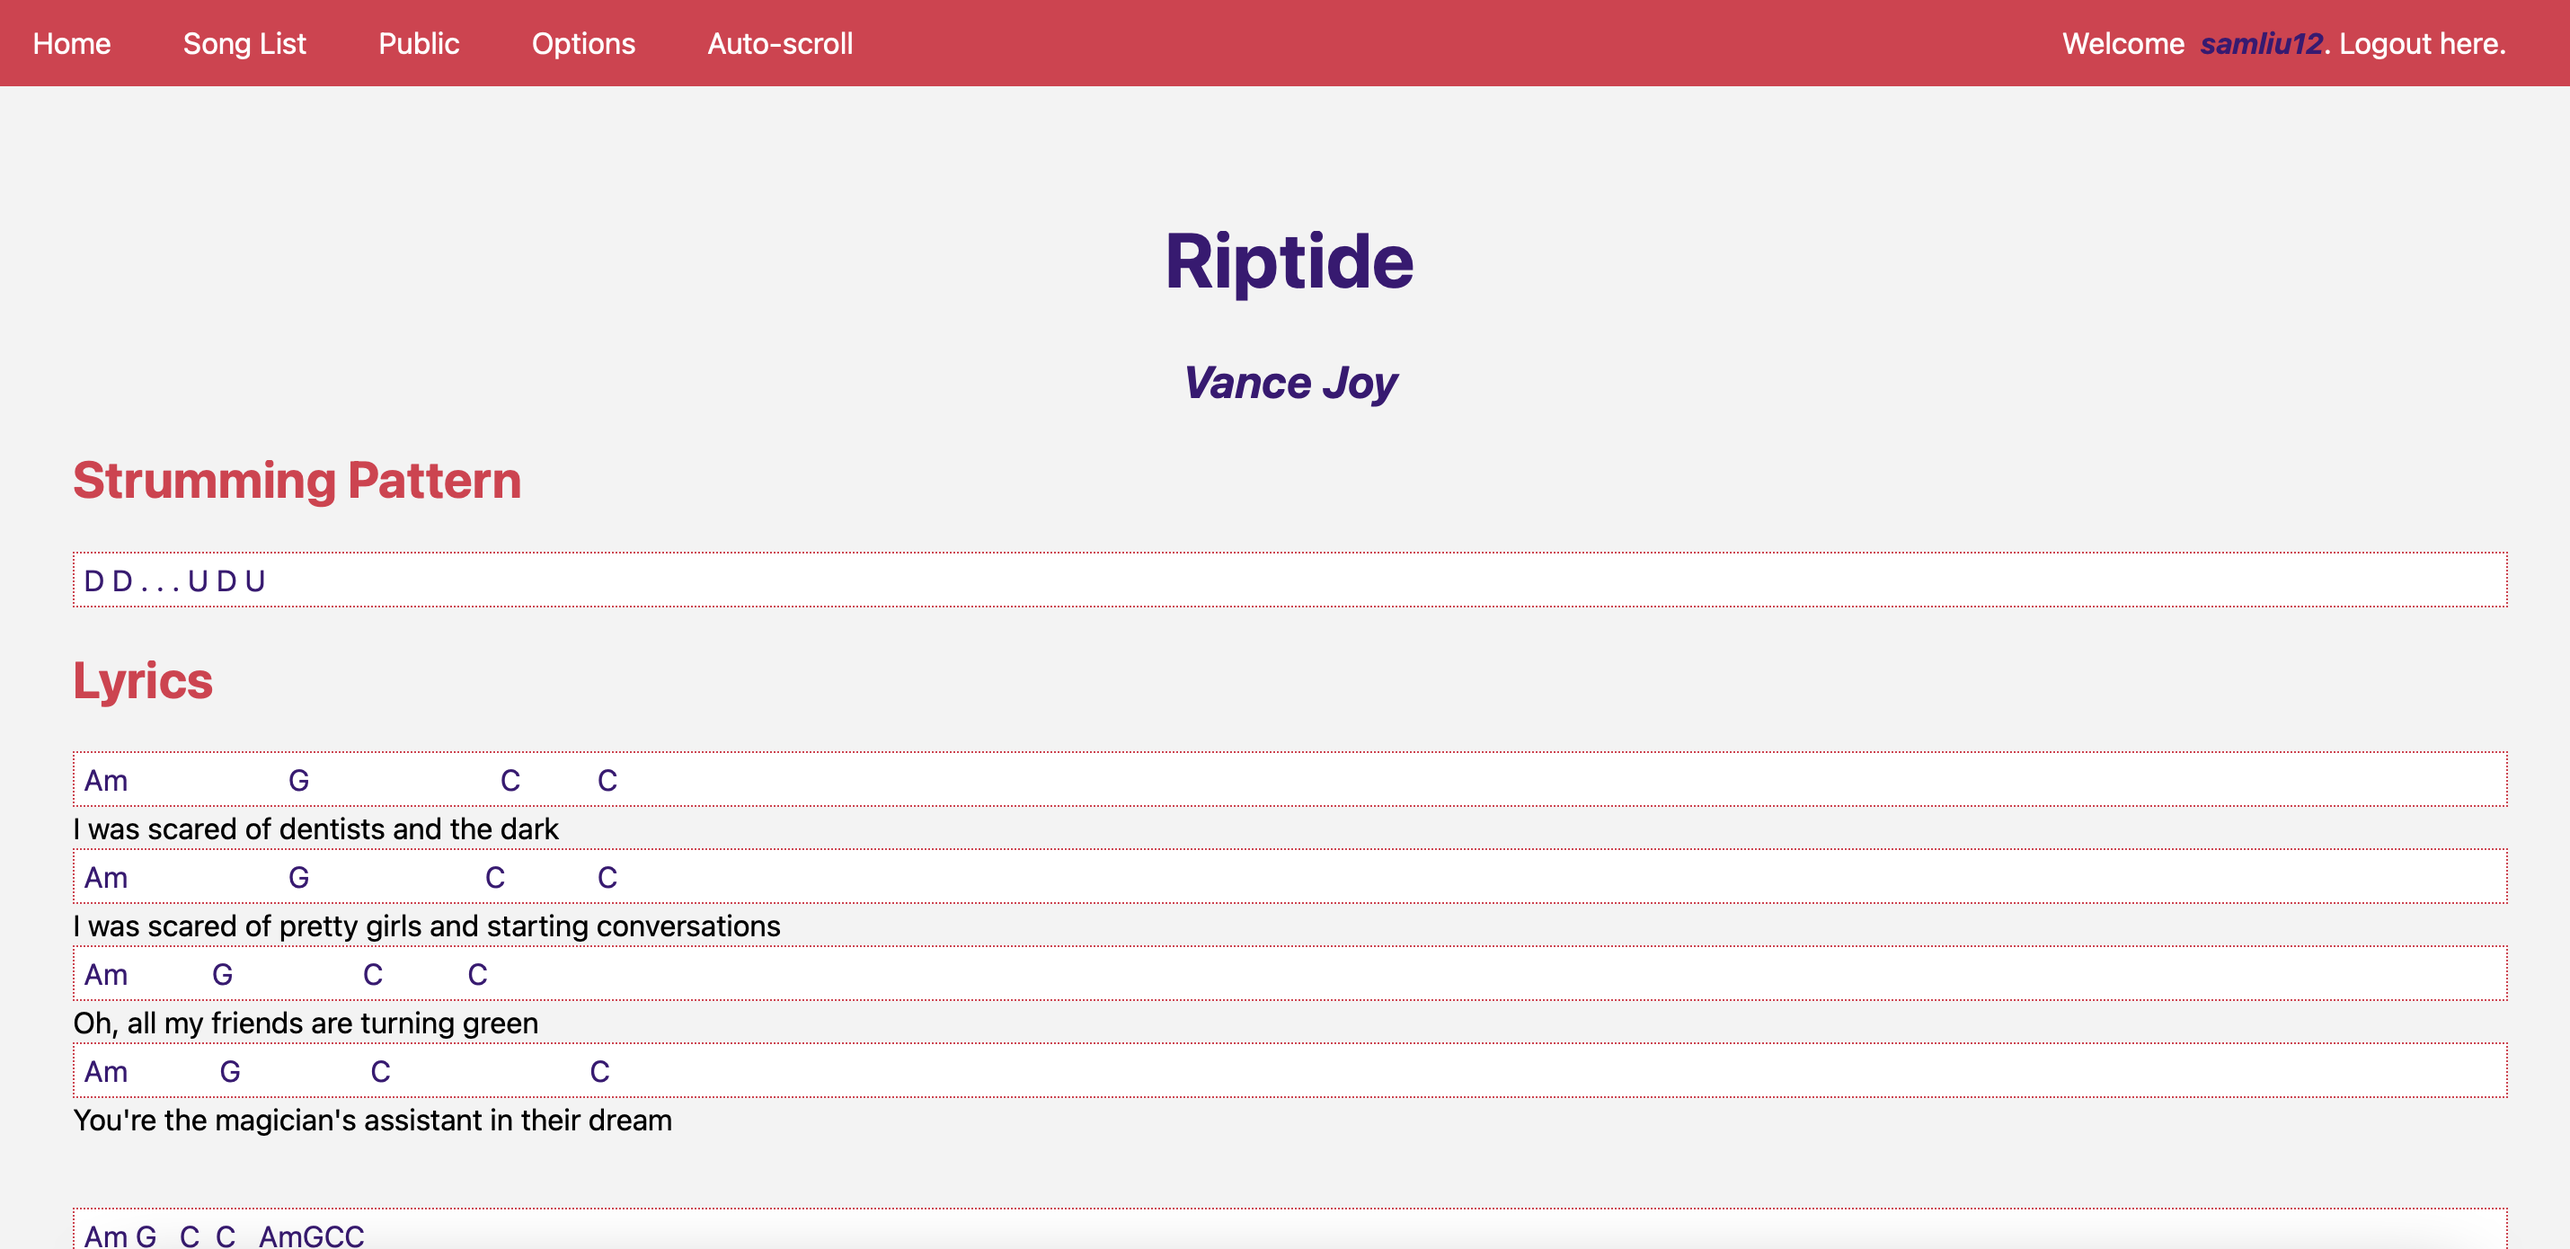
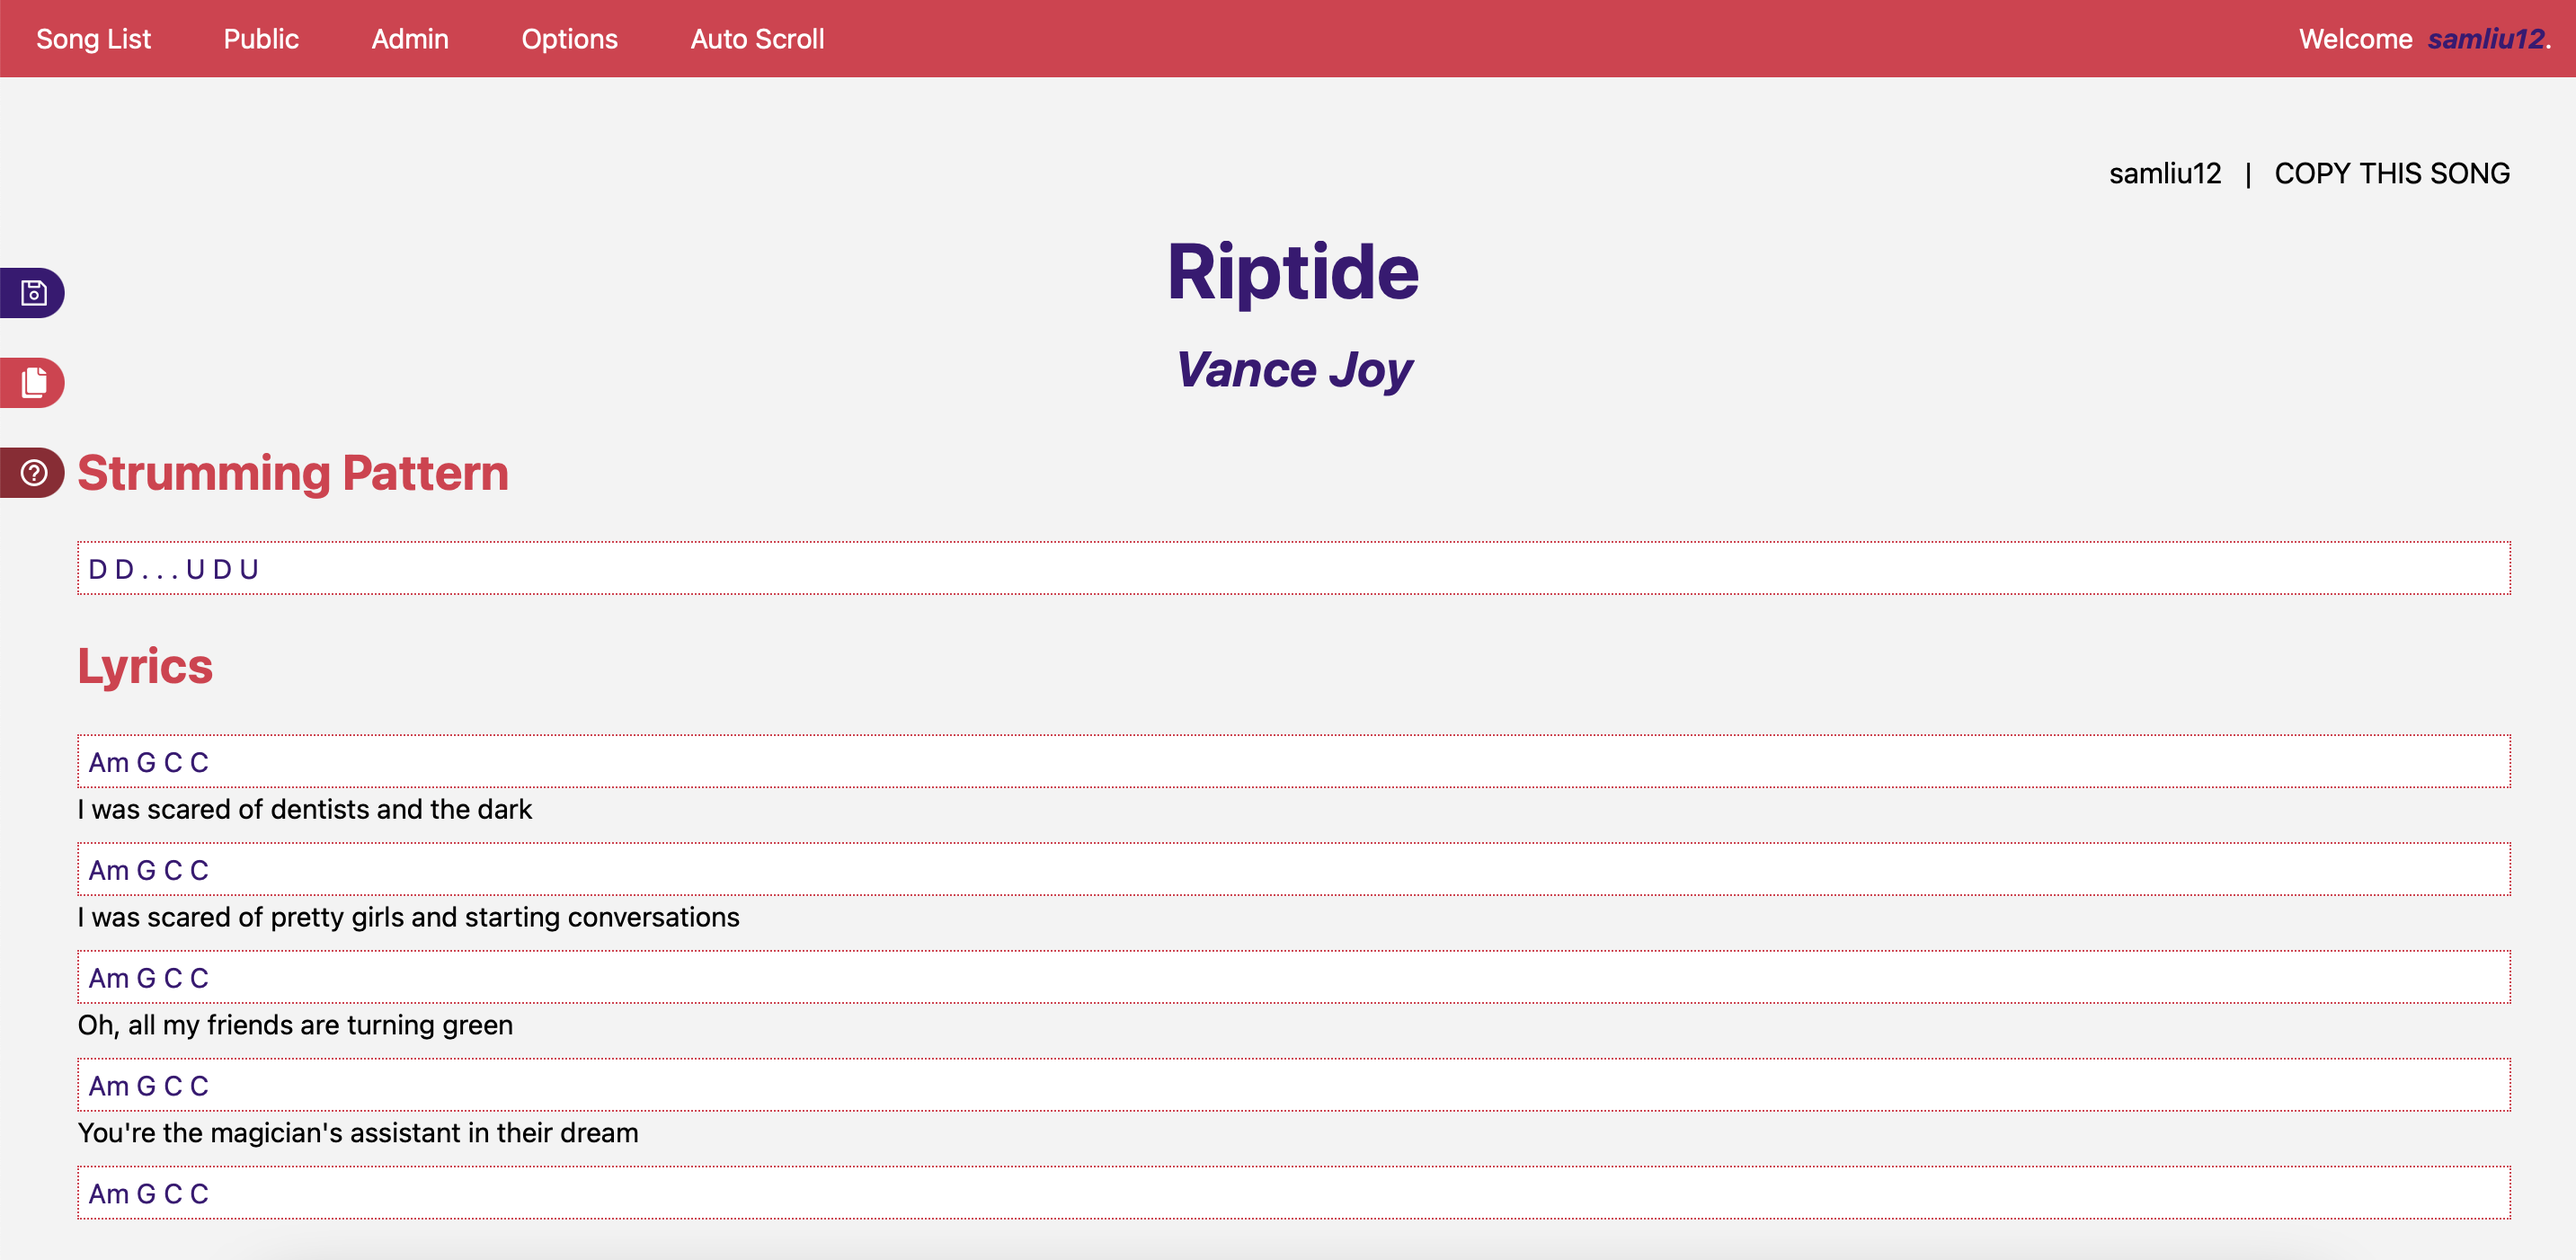
Updated session picture and add technologies used section

diff --git a/README.md b/README.md
@@ -7,13 +7,15 @@ https://lyrics-chords.herokuapp.com/
 https://github.com/samliu21/lyrics-chords/blob/master/API_Documentation.md
 
 ## Usage
-This website was created for my needs as a learning guitarist, but I thought I'd share it with the GitHub community! It offers a broad range of songsheet capabilities that include lyric scraping, adding chords and strumming patterns, auto scrolling, and more!
+This website was created for my needs as a learning guitarist, but I thought I'd share it with the GitHub community! It offers a broad range of songsheet capabilities that include lyric scraping, adding chords and strumming patterns, auto scrolling, and more! 
 
 You can also look at public songsheets that other guitarists have publicized! 
 
-The website was created using React and Django. A sample session can be found here:
+**Technologies Used**: React, Django, PostgreSQL, SQLite, Redux, DRF, Python, JavaScript, HTML, CSS
 
-<img src="https://github.com/samliu21/lyrics-chords/blob/master/sample-screen.png" alt="Sample Screen" />
+A sample session can be found here:
+
+<img src="./sample-screen.png" alt="Sample Screen" />
 
 ## Local Installation
 
